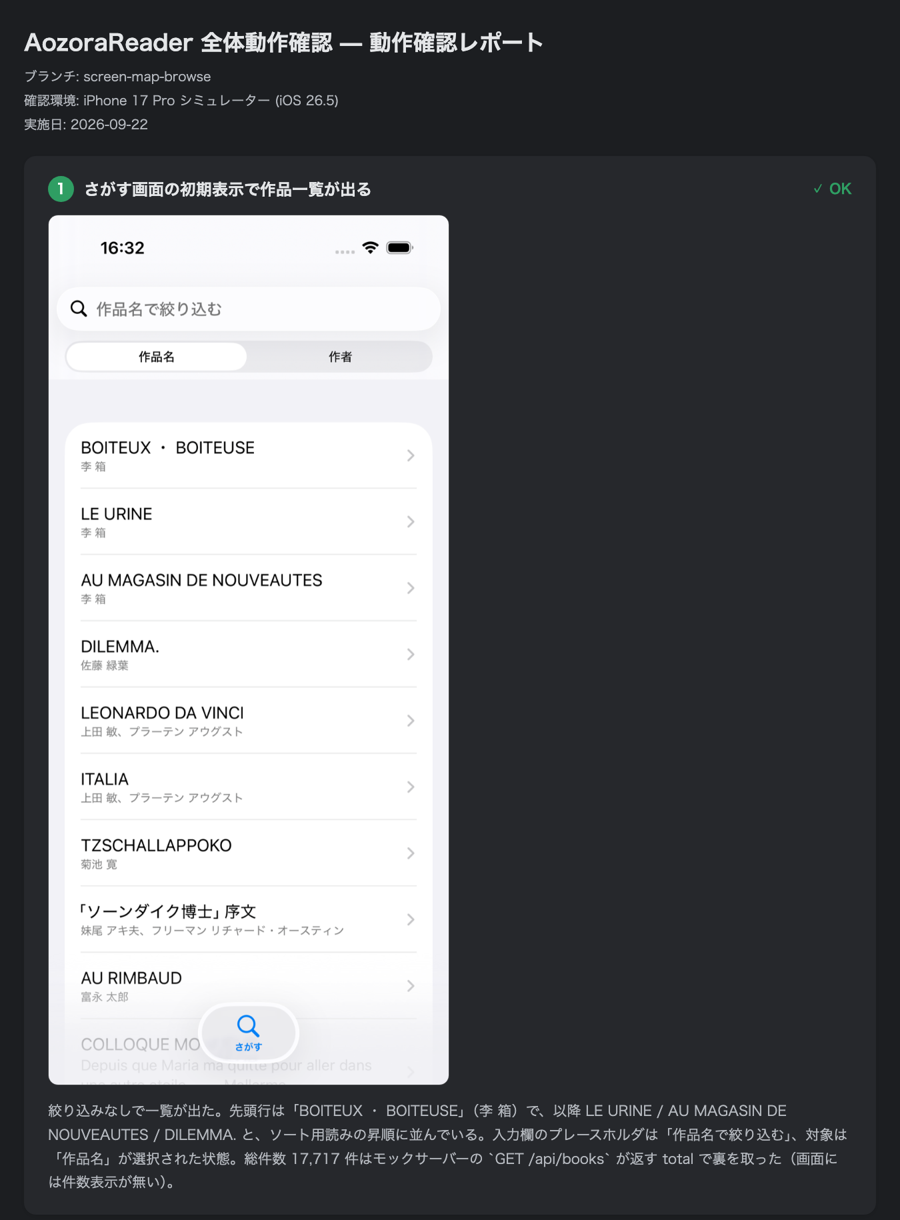
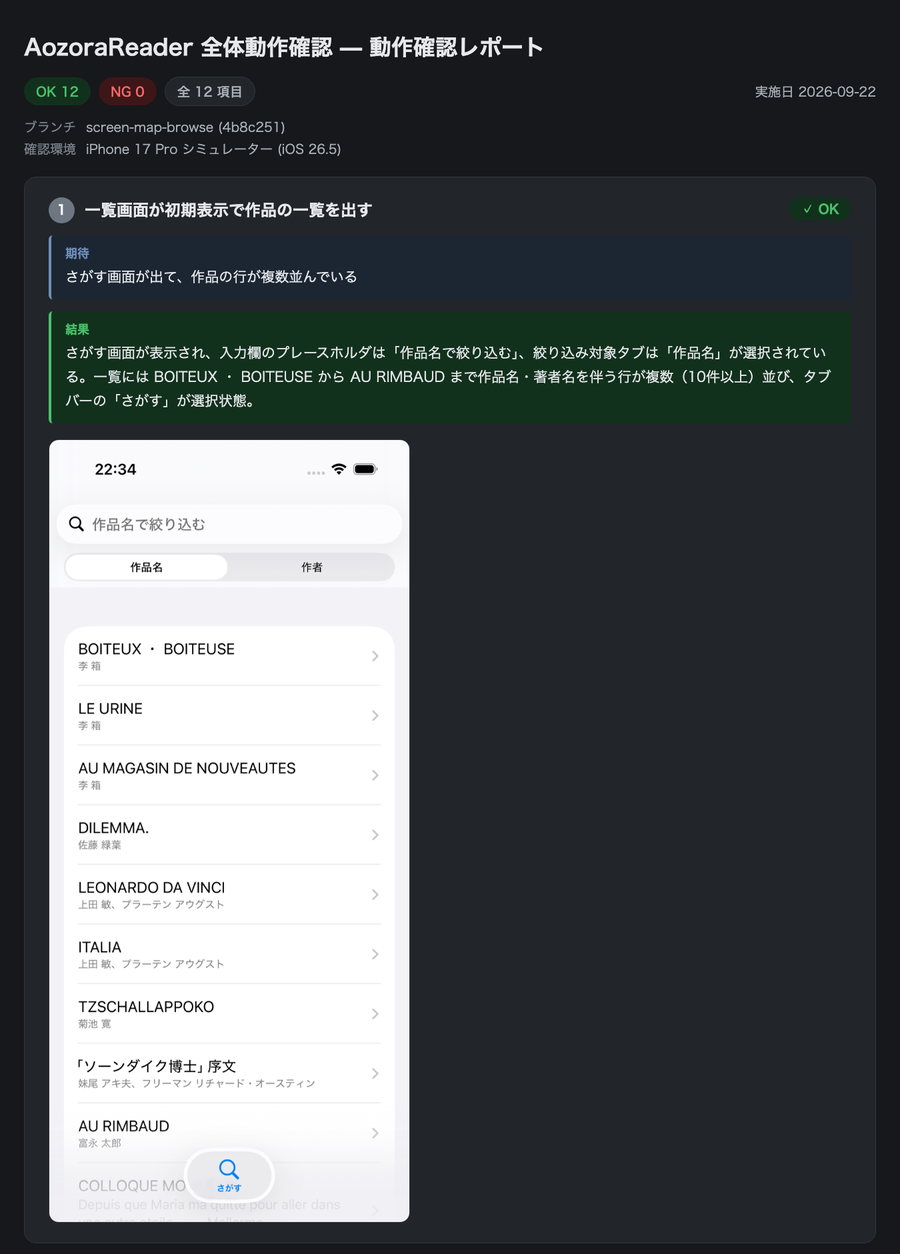
README のレポート例を新しいデザインに差し替え、期待と注記の説明を足した

Changed region(s): [[0.0311, 0.0, 0.9333, 0.9967], [0.84, 0.0623, 0.9644, 0.0934], [0.9022, 0.1557, 0.9333, 0.1869]]

diff --git a/README.md b/README.md
@@ -125,6 +125,8 @@ python3 ~/.claude/skills/sim-test-report/scripts/run_flows.py \
 
 撮影したスクリーンショットとダンプを見て、結果を記録する。渡すのは定義ファイルのパスだけで、確認項目も期待も証跡もそこに入っている。
 
+項目ごとに観測した事実（`desc`）と OK / NG（`result`）を書く。期待を訂正したときや、画像以外を根拠にしたときは、その項目の注記（`note`）に残す。
+
 ### 6. レポートを組む（`build_report.py`）
 
 ```bash
@@ -132,6 +134,8 @@ python3 ~/.claude/skills/sim-test-report/scripts/build_report.py <出力先>/man
 ```
 
 画像を base64 で埋め込んだ単一HTMLと、それを1枚に描画したPNGが出る。
+
+項目ごとのカードには、レビューで合意した期待と、観測した結果が並び、その下に証跡が続く。レポートだけを見た人にも、何を期待して OK / NG にしたのかが読める。
 
 ![動作確認レポートの先頭部分](docs/report-example.png)
 
